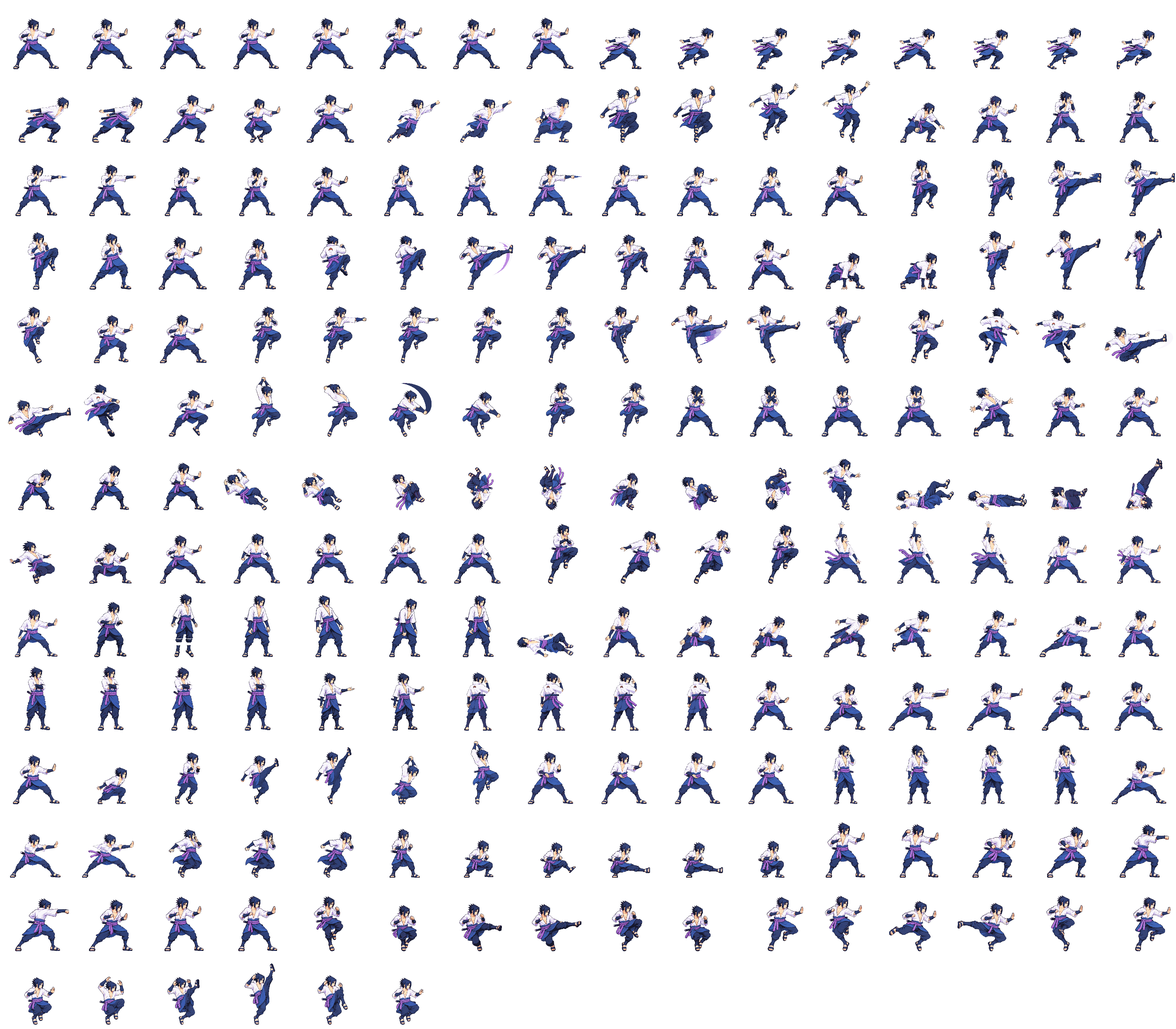
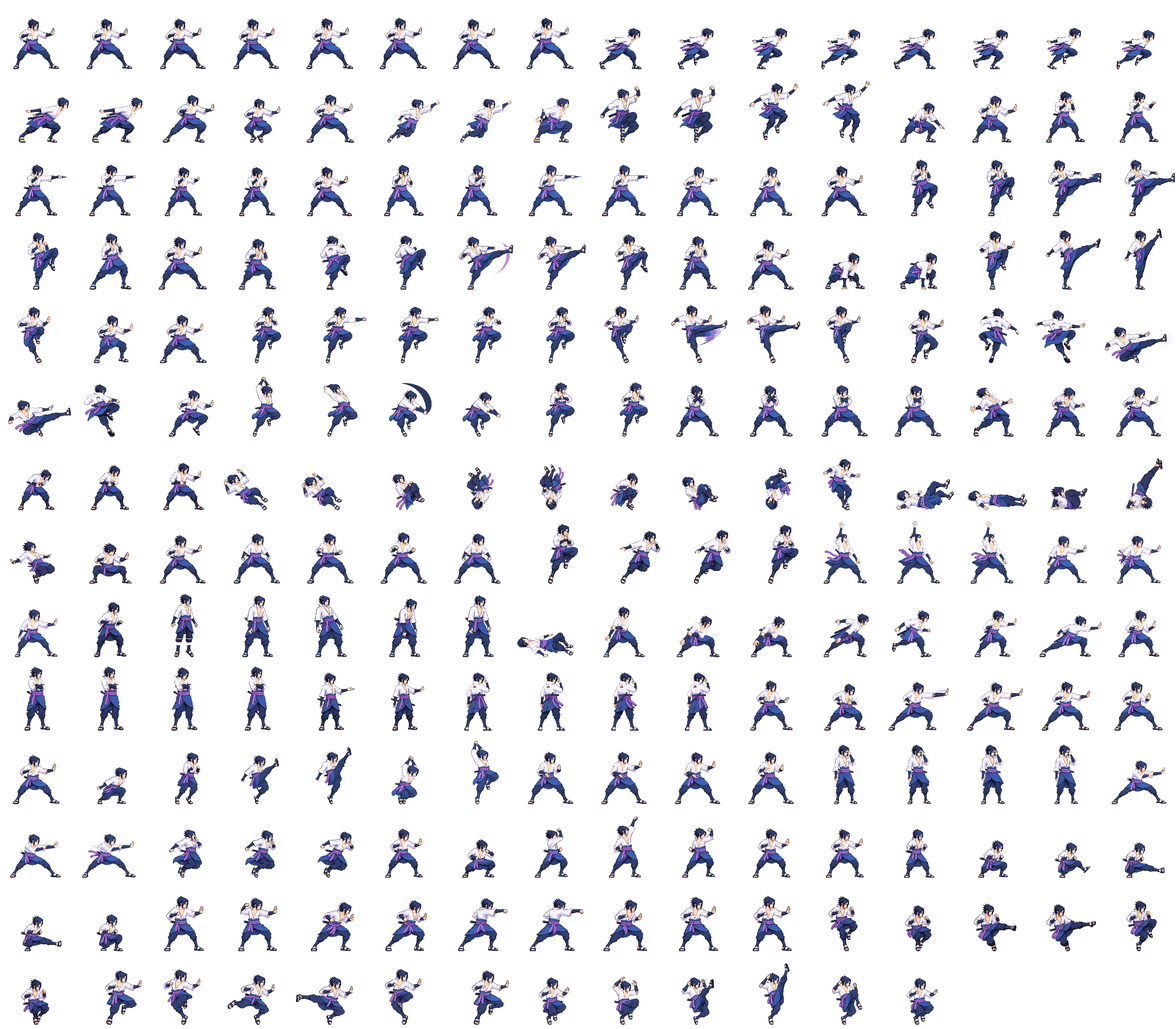
art(sasuke): prepare deterministic uTilt v05 edit

Changed region(s): [[0.0, 0.8125, 1.0, 1.0]]

diff --git a/public/reviews/normals-sasuke/index.html b/public/reviews/normals-sasuke/index.html
@@ -27,8 +27,8 @@
 </head>
 <body><main>
   <h1>Sasuke directional normals — ENG-112</h1>
-  <p>Review-only art candidates. Via Claude relay combat #3, the user approved uTilt v01, fSmash v02, fair v03, bair v01 and uair v01 as drawings; via relay #7, they approved fTilt v03, dashAttack v05 and uSmash v05 as drawings. Relay #5 records the user's rejection of dTilt v02 because it reads as a stomach-height thrust instead of a crouched shin poke. The user approved dTilt v05 as drawn via relay #13 after reviewing packed cells 181–186; it remains the approved drawing. Relay #10 authorized a further kick-specific round; its selected dTilt v06 is shown below as a raw strip for drawing review, but the scale gate failed and no packed atlas was written. Any v06 image approval applies to the drawing only and cannot clear this technical hold. The authorized uTilt v02 redraw and v03 head-only round both repainted the full canvas, so no candidate was selected in either round; approved uTilt v01 remains technically held. v03 attempts and provenance are recorded in the branch review queue and attempt ledger. The three other approved drawings also remain in technical hold, with stand-ins active. The user directed via relay #8 that dSmash keeps its stand-in. Candidate previews below show quantized atlas crops beside the stand-ins and approved idle f0 at 256 px per cell.</p>
-  <p class="status"><strong>Technical audit: HOLD.</strong> dTilt v05 was selected by the user for review, imported with a measured x0.8511 auto-head fit and passes the default quantized gate. Astra visually passes six-frame anatomy and shin-height forward contact; body-sheet B=.73 remains a quantitative advisory, and runtime contact/timing remain unverified. New kick-specific dTilt v06 is shown below for drawing review; its default quantized scale gate fails, no packed atlas was written and the final Astra atlas audit is pending. Do not treat a v06 drawing approval as technical clearance. The fallback remains active during review. Full-source Astra scale audit: uTilt v01's f2/f3 probes hit raised arms, but readable heads remain 7.6% small and cannot pass by exemption or auto-fit; the user-approved drawing stays held pending a decision before any redraw. uair v01 passes after the version-bound f1 probe exemption. fair v03 is head-scale ok after the measured 0.9407 import fit, but its body-sheet B=.73–.81 remains an advisory pending precise torso/leg segment measurements; the unchanged source drawing remains user-approved. fTilt v03 remains held for anatomy and phase/contact mismatch; dashAttack v05 for endpoint scale, phase and generic-box concerns; uSmash v05 for scale pop/anatomy. Runtime hit landing remains Claude's integration check.</p>
+  <p>Review-only art candidates. Via Claude relay combat #3, the user approved uTilt v01, fSmash v02, fair v03, bair v01 and uair v01 as drawings; via relay #7, they approved fTilt v03, dashAttack v05 and uSmash v05 as drawings. Relay #5 records the user's rejection of dTilt v02 because it reads as a stomach-height thrust instead of a crouched shin poke. The user approved dTilt v05 as drawn via relay #13 after reviewing packed cells 181–186; it remains the approved drawing. Relay #10 authorized kick-specific dTilt v06; it is still shown below from source for review, but its scale gate fails. Relay #11 authorized a no-generation deterministic 8% head enlargement for approved uTilt v01. The new uTilt v05 is the next unused version because v02/v03 attempts and a v04 edit attempt are retained; this page shows quantized v05 frames and before/after source heads. The move remains unapproved, and its stand-in stays active. The user directed via relay #8 that dSmash keeps its stand-in. Candidate previews below show quantized atlas crops beside the stand-ins and approved idle f0 at 256 px per cell.</p>
+  <p class="status"><strong>Technical audit: HOLD for the fighter pack.</strong> Astra inspected all seven quantized uTilt v05 cells and found the requested head enlargement has no obvious jaw/collar gap or limb displacement. Full numerical anatomy/scale remains HOLD: readable f6 head=.921, manual uncertainty about ±2–3 packed px, body-sheet B median=.917 below the .93 target. The candidate default gate passes with v05-only f2/f3 raised-arm probe exemptions; readable-head median .996. The strict all-strips dry run fails on dTilt v06 (head 1.09, feet 1.50). The review atlas was packed with dTilt v06 temporarily held out, so it contains approved dTilt v05 and unapproved uTilt v05. User seam review is pending; drawing approval cannot clear these technical holds. Runtime contact/timing remain Claude's integration check. The other approved drawings remain in technical hold with stand-ins active. fair v03 passed head scale after a measured 0.9407 import fit, but body-sheet B=.73–.81 remains advisory pending precise segment measurements. fTilt v03 remains held for anatomy and phase/contact mismatch; dashAttack v05 for endpoint scale, phase and generic-box concerns; uSmash v05 for scale pop/anatomy.</p>
   <p class="links"><a href="../../characters/sasuke/sheet.png">Branch quantized atlas (includes review candidate dTilt v05)</a> · <a href="atlas-audit/characters/sasuke/sheet.png">Earlier full quantized diagnostic atlas for Astra</a> · <a href="atlas-audit/README.md">Diagnostic atlas notes</a> · <a href="../../characters/sasuke/anims.json">branch anims.json</a> · <a href="lineup-normals-sasuke.png">lineup diagnostic</a> · <a href="body/body-report.json">prior body report</a> · <a href="https://gcd-tourney.vercel.app/?fight=sasuke,naruto&amp;mode=solo&amp;art=custom">current production site (not this branch preview)</a></p>
   <p class="small">The loop GIFs and frame PNGs for pending candidates are exact crops from the current quantized review atlas, beside stand-ins and approved idle at 256 px per cell. A candidate shown here does not itself approve the drawing or change the fallback. Raw generated strips are linked in each section. Runtime contact remains unverified.</p>
   <section id="dtilt-v06"><h2>dTilt v06 — kick-specific retry, scale hold</h2><p>Six poses: ready crouch, kick chamber, shin-height kick, shin-height kick, retraction, crouch. Sasuke's fists stay in guard and his sword stays sheathed. The raw strip is shown for visual review. The quantized scale gate measured the source head at 1.47× idle and feet at 1.96×; the auto-head fit required 0.68, outside the allowed 0.75–1.33 range. Clamping to 0.75 still leaves head 1.09× and feet 1.50×, and clips the active frames into the cell edge. The packer wrote no v06 atlas, so the technical hold remains and the user has not approved v06.</p><figure><figcaption>dTilt v06 raw six-frame strip · relay combat #10</figcaption><img src="dTilt_v06_source.png" alt="Sasuke crouches and delivers two shin-height forward kicks with his hands guarded"></figure><p class="small"><a href="dTilt_v06_source.png">Open raw strip</a>. The exact prompts, call IDs, input path and output hashes are recorded in the branch's `art/characters/sasuke/production/dTilt_v06_generation_attempts.md`. Previous v05 loop remains in the move list below.</p></section>
@@ -37,7 +37,7 @@
 <script>
 const moves = [
   { name: 'fTilt', v: 'v03', fallback: 'light2', count: 7, kind: 'packed', prefix: 'fTilt_', gif: 'fTilt_loop_v03.gif', file: 'candidates/fTilt_v03.png', hold: 'Astra holds undersized head/thigh volume and phase/contact mismatch; touching pose groups remain. v03 is preserved in raw/_qa_hold; fallback active.' },
-  { name: 'uTilt', v: 'v01', fallback: 'heavy', count: 7, kind: 'packed', prefix: 'uTilt_', gif: 'uTilt_loop_v01.gif', file: 'candidates/uTilt_v01.png', note: 'User-approved drawing; Astra found false f2/f3 head detections, but readable head median .924 still fails the 6% gate. No valid import fit; held in raw/_qa_hold, stand-in active pending user decision.' },
+  { name: 'uTilt', v: 'v05', fallback: 'heavy', count: 7, kind: 'packed', prefix: 'uTilt_v05_', gif: 'uTilt_loop_v05.gif', file: 'candidates/uTilt_v05_source.png', hold: 'Astra: head-edit seam/pose PASS for review. Overall scale HOLD: readable f6 head .921 and B median .917; manual uncertainty ±2–3 packed px. Default gate passes with v05-only f2/f3 arm-probe exemptions; strict all-strips dry run is blocked by dTilt v06. User seam approval pending; fallback active.' },
   { name: 'dTilt', v: 'v05', fallback: 'light3', count: 6, kind: 'packed', prefix: 'dTilt_', gif: 'dTilt_loop_v05.gif', file: '../../characters/sasuke/raw/dTilt_v05.png', hold: 'User approved v05 as drawn via Claude relay combat #13 after reviewing packed sheet cells 181–186. Measured auto-head fit x0.8511; default quantized gate passes. Astra visually passes anatomy and shin-height forward strike; body sheet B=.73 remains an unresolved quantitative advisory. Runtime contact/timing unverified; fallback remains active until integration clearance. <a href="audits/dTilt-v05-astra-audit.md">Astra audit</a>. v06 is shown above for drawing review under a separate scale hold.' },
   { name: 'dashAttack', v: 'v05', fallback: 'light4', count: 7, kind: 'packed', prefix: 'dashAttack_', gif: 'dashAttack_loop_v05.gif', file: 'candidates/dashAttack_v05.png', hold: 'Astra holds oversized upright endpoints, phase mismatch and generic active box; v05 is preserved in raw/_qa_hold, fallback active pending integration and user review.' },
   { name: 'fSmash', v: 'v02', fallback: 'light4', count: 9, kind: 'packed', prefix: 'fSmash_', gif: 'fSmash_loop_v02.gif', file: 'candidates/fSmash_v02.png', note: 'Packed v02 selected; v03 was held after it clipped the 4 px cell margin. Frame 01 is the charge pose. <a href="candidates/fSmash_v03.png">View held v03 source</a>.' },
@@ -62,6 +62,7 @@ const descriptions = {
 const host = document.querySelector('#moves');
 for (const move of moves) {
   const section = document.createElement('section');
+  section.id = move.name === 'uTilt' && move.v === 'v05' ? 'utile-v05' : move.name;
   const approvedDrawings = { fTilt: 'v03', uTilt: 'v01', dTilt: 'v05', dashAttack: 'v05', fSmash: 'v02', uSmash: 'v05', fair: 'v03', bair: 'v01', uair: 'v01' };
   const approval = approvedDrawings[move.name] === move.v ? '<strong class="candidate">User-approved drawing — technical HOLD remains.</strong> ' : '';
   const label = approval ? 'Technical HOLD remains.' : move.kind === 'packed' ? 'Unapproved candidate — Astra audit pending.' : 'Astra HOLD; not approved.';
@@ -70,7 +71,7 @@ for (const move of moves) {
   const candidateFrames = Array.from({length: move.count}, (_, i) => `<div class="frame"><img src="${prefix}${String(i).padStart(2, '0')}.png" alt="${move.name} frame ${i}">${i}</div>`).join('');
   const fallbackFiles = { light2: 7, heavy: 8, light3: 7, light4: 8, airLight2: 5, airLight3: 6 };
   const standinFrames = Array.from({length: fallbackFiles[move.fallback]}, (_, i) => `<div class="frame"><img src="standins/${move.name}/${move.fallback}_${String(i).padStart(2, '0')}.png" alt="${move.fallback} stand-in frame ${i}">${i}</div>`).join('');
-  const extra = move.name === 'dTilt' ? ' · <a href="body/dTilt_v05.png">body sheet</a> · <a href="body/heads-sasuke.png">heads scale sheet</a>' : '';
+  const extra = move.name === 'dTilt' ? ' · <a href="body/dTilt_v05.png">body sheet</a> · <a href="body/heads-sasuke.png">heads scale sheet</a>' : move.name === 'uTilt' ? ' · <a href="uTilt_head_before_after_v05.png">head before/after</a> · <a href="candidates/uTilt_v05.png">quantized strip</a> · <a href="body/uTilt_v05.png">body sheet</a> · <a href="heads-sasuke-v05.png">heads scale sheet</a> · <a href="audits/uTilt-v05-astra-audit.md">Astra audit</a>' : '';
   section.innerHTML = `<h2>${move.name} ${move.v} — fallback: ${move.fallback}</h2><p>${descriptions[move.name]}</p><p>${status}</p><div class="row"><figure><figcaption>Approved idle f0</figcaption><img class="idle" src="standins/idle_00.png" alt="Approved Sasuke idle frame 0"></figure><figure><figcaption>Existing stand-in: ${move.fallback}</figcaption><div class="frames">${standinFrames}</div></figure><figure><figcaption>Candidate frames · ${move.hold ? 'source-only' : 'quantized atlas'}</figcaption><div class="frames">${candidateFrames}</div><img class="loop" src="${move.gif}" alt="${move.name} loop preview"><p><a href="${move.file}">raw ${move.v} strip</a>${extra}</p></figure></div>`;
   host.append(section);
 }

diff --git a/art/characters/sasuke/production/uTilt_v05_pixel_edit.md b/art/characters/sasuke/production/uTilt_v05_pixel_edit.md
@@ -1,0 +1,55 @@
+# Sasuke uTilt v05 deterministic head edit (ENG-112)
+
+## User direction
+
+Claude relayed user decision combat #11: do not generate an image; enlarge only the hair-to-chin head of approved
+uTilt v01 about 8% around the neck/jaw, keep the same poses and strip layout, record the deterministic pixel edit, then
+return the result for seam review. The user approved v01 via Claude relay combat #3. This v05 is a new unapproved
+candidate; `approvedVersion` remains 1. v02 and v03 were occupied by failed earlier image edits, and a failed local
+deterministic v04 attempt is preserved at `raw/_qa_hold/uTilt_v04_edit_attempt.png`. Version numbers were not reused.
+
+## Source and operation
+
[2 lines of base64/hex data omitted]
+- Operation: for each frame, select only the visible hair/head-to-chin pixels inside a hand-traced head mask and overlay a deterministic nearest-neighbor 1.08 enlargement about the neck/jaw anchor. All source pixels outside the transformed head/neck-edge regions remain byte-identical. There were no image-generation or image-edit model calls.
+- Per-frame anchors in source canvas coordinates: f0 `(165,350)`, f1 `(508,411)`, f2 `(788,329)`, f3 `(1073,300)`, f4 `(1380,320)`, f5 `(1675,348)`, f6 `(1985,348)`.
+- Transformed source pixel bounding boxes (exclusive max): f0 `(116,231)-(212,353)`, f1 `(455,319)-(553,417)`, f2 `(733,246)-(831,333)`, f3 `(1001,209)-(1106,313)`, f4 `(1315,225)-(1421,331)`, f5 `(1625,231)-(1722,357)`, f6 `(1942,235)-(2039,357)`. Total pixel differences from v01: 46,294.
+- v04 attempt used erase-and-replace, exposed magenta seams at the collar/back hair, and was moved intact to `_qa_hold`; v05 instead overlays the enlargement on the untouched source so the original neck/collar remain underneath.
+
+## Pack and Astra evidence
+
+The initial quantized pack reported a false `pop` because the head probe selected raised arms at f2/f3. Astra confirmed on the
+v05 source that the actual heads remain below-left of those arms, matching the earlier v01 measurement error. The manifest
+therefore records only f2 and f3 as `scaleExemptFrames`, with `scaleExemptVersion: 5` and explicit version-bound reasons.
+
+A default candidate pack then passed and wrote the 48-color atlas. For that diagnostic pack only, dTilt v06 was temporarily
+moved to `raw/_qa_hold/`; the atlas therefore packs approved dTilt v05 and candidate uTilt v05. dTilt v06 was restored to
+`raw/` before the full strict-scale dry run, which correctly fails on dTilt v06 (head 1.09 of idle, feet 1.50). uTilt v05
+cells are 181–187; `loop:false`, phases 2/2/3.
+
+Final Astra audit of the actual quantized cells:
+
+| Frame | head probe | body B | finding |
+|---|---:|---:|---|
+| 0 | .971 | .918 | head/jaw joins collar; stance retained |
+| 1 | 1.000 | .828 | crouch intact; folded limbs obscure segment lengths |
+| 2 | .540 (false arm probe) | .882 | head is below-left of raised arm; sleeve obscures lower landmarks |
+| 3 | .581 (false arm probe) | 1.039 | head is below-left of overhead arm; neck remains connected |
+| 4 | .996 | .917 | recovery head/collar continuous; silhouettes retained |
+| 5 | 1.000 | .920 | clean recovery silhouette and jaw attachment |
+| 6 | .921 | .913 | no obvious seam; readable head remains below target |
+
+Head-edit seam/pose verdict: **PASS for the user's seam review**. Full numerical scale/anatomy verdict: **HOLD**. Readable
+head measurements have approximately ±2–3 packed-pixel uncertainty, higher at f2/f3 due to occlusion and angle; this is not
+precise enough to certify ±3%. Body-sheet median B is `.917`, below the assigned `.93–1.07` advisory envelope, and this
+inspection does not quantitatively explain away the shortfall. The unchanged v01 poses already look more compact/narrow than
+idle/combat. No new torso/limb/footwear/clothing-volume distortion is apparent, but no numerical segment pass is claimed.
+
[2 lines of base64/hex data omitted]
+- Before/after source-head view: `public/reviews/normals-sasuke/uTilt_head_before_after_v05.png`.
+- Packed frame loop, body sheet, and scale-head sheet are linked on the ENG-112 review page.
+
+User seam approval is still pending; approval of v05 would not clear the Astra numeric hold, activate the strip in production,
+or override the separate dTilt v06 gate. Fallback remains active pending user drawing approval and Claude's integration check.

diff --git a/public/reviews/normals-sasuke/audits/uTilt-v05-astra-audit.md b/public/reviews/normals-sasuke/audits/uTilt-v05-astra-audit.md
@@ -1,0 +1,55 @@
+# Sasuke uTilt v05 deterministic head edit (ENG-112)
+
+## User direction
+
+Claude relayed user decision combat #11: do not generate an image; enlarge only the hair-to-chin head of approved
+uTilt v01 about 8% around the neck/jaw, keep the same poses and strip layout, record the deterministic pixel edit, then
+return the result for seam review. The user approved v01 via Claude relay combat #3. This v05 is a new unapproved
+candidate; `approvedVersion` remains 1. v02 and v03 were occupied by failed earlier image edits, and a failed local
+deterministic v04 attempt is preserved at `raw/_qa_hold/uTilt_v04_edit_attempt.png`. Version numbers were not reused.
+
+## Source and operation
+
[2 lines of base64/hex data omitted]
+- Operation: for each frame, select only the visible hair/head-to-chin pixels inside a hand-traced head mask and overlay a deterministic nearest-neighbor 1.08 enlargement about the neck/jaw anchor. All source pixels outside the transformed head/neck-edge regions remain byte-identical. There were no image-generation or image-edit model calls.
+- Per-frame anchors in source canvas coordinates: f0 `(165,350)`, f1 `(508,411)`, f2 `(788,329)`, f3 `(1073,300)`, f4 `(1380,320)`, f5 `(1675,348)`, f6 `(1985,348)`.
+- Transformed source pixel bounding boxes (exclusive max): f0 `(116,231)-(212,353)`, f1 `(455,319)-(553,417)`, f2 `(733,246)-(831,333)`, f3 `(1001,209)-(1106,313)`, f4 `(1315,225)-(1421,331)`, f5 `(1625,231)-(1722,357)`, f6 `(1942,235)-(2039,357)`. Total pixel differences from v01: 46,294.
+- v04 attempt used erase-and-replace, exposed magenta seams at the collar/back hair, and was moved intact to `_qa_hold`; v05 instead overlays the enlargement on the untouched source so the original neck/collar remain underneath.
+
+## Pack and Astra evidence
+
+The initial quantized pack reported a false `pop` because the head probe selected raised arms at f2/f3. Astra confirmed on the
+v05 source that the actual heads remain below-left of those arms, matching the earlier v01 measurement error. The manifest
+therefore records only f2 and f3 as `scaleExemptFrames`, with `scaleExemptVersion: 5` and explicit version-bound reasons.
+
+A default candidate pack then passed and wrote the 48-color atlas. For that diagnostic pack only, dTilt v06 was temporarily
+moved to `raw/_qa_hold/`; the atlas therefore packs approved dTilt v05 and candidate uTilt v05. dTilt v06 was restored to
+`raw/` before the full strict-scale dry run, which correctly fails on dTilt v06 (head 1.09 of idle, feet 1.50). uTilt v05
+cells are 181–187; `loop:false`, phases 2/2/3.
+
+Final Astra audit of the actual quantized cells:
+
+| Frame | head probe | body B | finding |
+|---|---:|---:|---|
+| 0 | .971 | .918 | head/jaw joins collar; stance retained |
+| 1 | 1.000 | .828 | crouch intact; folded limbs obscure segment lengths |
+| 2 | .540 (false arm probe) | .882 | head is below-left of raised arm; sleeve obscures lower landmarks |
+| 3 | .581 (false arm probe) | 1.039 | head is below-left of overhead arm; neck remains connected |
+| 4 | .996 | .917 | recovery head/collar continuous; silhouettes retained |
+| 5 | 1.000 | .920 | clean recovery silhouette and jaw attachment |
+| 6 | .921 | .913 | no obvious seam; readable head remains below target |
+
+Head-edit seam/pose verdict: **PASS for the user's seam review**. Full numerical scale/anatomy verdict: **HOLD**. Readable
+head measurements have approximately ±2–3 packed-pixel uncertainty, higher at f2/f3 due to occlusion and angle; this is not
+precise enough to certify ±3%. Body-sheet median B is `.917`, below the assigned `.93–1.07` advisory envelope, and this
+inspection does not quantitatively explain away the shortfall. The unchanged v01 poses already look more compact/narrow than
+idle/combat. No new torso/limb/footwear/clothing-volume distortion is apparent, but no numerical segment pass is claimed.
+
[2 lines of base64/hex data omitted]
+- Before/after source-head view: `public/reviews/normals-sasuke/uTilt_head_before_after_v05.png`.
+- Packed frame loop, body sheet, and scale-head sheet are linked on the ENG-112 review page.
+
+User seam approval is still pending; approval of v05 would not clear the Astra numeric hold, activate the strip in production,
+or override the separate dTilt v06 gate. Fallback remains active pending user drawing approval and Claude's integration check.

diff --git a/art/TRACKER.md b/art/TRACKER.md
@@ -239,7 +239,7 @@ Sprite Lab; if his hair adds clearly less height and his head comes out bigger, 
 | 9 | specialDown | 4 | 2/1/1 | no | 204 | approved | v04 | v04 | Title-style v04 approved by the user 2026-10-11 (shown in the final review preview). |
 | 9 | superPose | 4 | - | no | 208 | approved | v01 | v01 | Fallback: original v01 (title v03 passes but was never shown). Approved original v01. |
 | 9 | fTilt | 7 | 2/2/3 | no | 180 | approved | v03 | v03 | User approved as drawn via Claude relay combat #7. Astra scale/anatomy and phase/contact HOLD remains; preserved in raw/_qa_hold and fallback remains active. [ENG-112 review](../public/reviews/normals-sasuke/). |
-| 9 | uTilt | 7 | 2/2/3 | no | 213 | approved | v01 | v01 | User approved as drawn via Claude relay combat #3. Astra confirms f2/f3 probe reads raised arms; exemptions are recorded, but readable heads median .924 still fail the 6% gate. The authorized v02 round and v03 head-only round both changed the full canvas; v03 attempts 01–03 changed 91.01–97.18% of pixels. No candidate selected; attempts are retained in raw/_qa_hold. v01 remains held and its stand-in stays active pending the user's next decision. [ENG-112 review](../public/reviews/normals-sasuke/). [v03 attempt ledger](characters/sasuke/production/uTilt_v03_head_edit_attempts.md). |
+| 9 | uTilt | 7 | 2/2/3 | no | 213 | approved | v05 | v01 | User approved v01 via Claude relay combat #3. Per relay #11, v05 deterministically enlarges only head/hair about 8% from v01 pixels; v02/v03 failures and v04 local edit are preserved, not reused. Astra inspected quantized cells 181–187 and found the head-edit seam/pose pass for review; full numerical scale remains HOLD (readable f6 head .921 ±2–3 px; body B median .917 vs .93 target). Default candidate gate passes with version-bound v05 f2/f3 false arm-probe exemptions; user seam approval pending. v01 remains approved; fallback stays active. [ENG-112 review](../public/reviews/normals-sasuke/#utile-v05). [v05 pixel-edit/Astra record](characters/sasuke/production/uTilt_v05_pixel_edit.md). |
 | 9 | dTilt | 6 | 2/2/2 | no | 200 | approved | v06 | v05 | User approved v05 as drawn via Claude relay combat #13 after reviewing packed cells 181–186. Relay #10 then authorized a kick-specific v06 round; attempt 03 was selected as the six-frame shin-height kick, with guarded arms and sheathed sword. v06's quantized scale gate blocks packing: auto-head fit 0.68 is outside 0.75–1.33 and the clamped fit leaves the figure oversized/clipped. v05 remains the approved drawing; v06 is a separate drawing-review request under technical hold. [ENG-112 review](../public/reviews/normals-sasuke/). [v06 generation ledger](characters/sasuke/production/dTilt_v06_generation_attempts.md). |
 | 9 | dashAttack | 7 | 2/2/3 | no | 193 | approved | v05 | v05 | User approved as drawn via Claude relay combat #7. Astra scale/anatomy and phase/contact HOLD remains; preserved in raw/_qa_hold and fallback remains active. [ENG-112 review](../public/reviews/normals-sasuke/). |
 | 9 | fSmash | 9 | 4/2/3 | no | 193 | approved | v02 | v02 | User approved v02 as drawn via Claude relay combat #3. Astra technical HOLD remains; v03 stays held for 2 px margin clipping. f1 is the held charge pose. [ENG-112 review](../public/reviews/normals-sasuke/). |

diff --git a/art/REVIEW.md b/art/REVIEW.md
@@ -1,5 +1,17 @@
 # Art review queue
 
+## 2026-10-18 — Sasuke uTilt v05 — needs review, technical hold pending strict scale gate
+
+| date | character | asset | file | version | status | what changed | QA notes |
+|---|---|---|---|---|---|---|---|
+| 2026-10-18 | sasuke | uTilt | [uTilt_v05](characters/sasuke/raw/uTilt_v05.png) · [before/after](../public/reviews/normals-sasuke/uTilt_head_before_after_v05.png) · [ENG-112 review](../public/reviews/normals-sasuke/#utile-v05) | v05 | needs review | Per user decision via Claude relay combat #11, deterministically enlarged only the head/hair to chin about 8% from approved v01 pixels, preserving pose and strip geometry. | No image generation calls. Nearest-neighbor 1.08 enlargement around seven neck/jaw anchors; canvas 2172x724. Default quantized gate passes with Astra-evidenced v05-only f2/f3 raised-arm probe exemptions; head median .996, range .079, feet metric 1.27. Astra inspected quantized cells 181–187: seam/pose PASS for review, but full numerical clearance HOLD: readable f6 head .921 with ±2–3 packed-pixel uncertainty and body-sheet B median .917 (below .93 target; advisory). User seam approval pending; no production promotion. Review atlas was packed with dTilt v06 temporarily held out, so this v05 candidate atlas includes approved dTilt v05. Strict all-strips dry-run fails on dTilt v06 (head 1.09, feet 1.50). Prior v02/v03 calls and v04 local edit attempt are preserved and not reused. [Pixel-edit/Astra record](characters/sasuke/production/uTilt_v05_pixel_edit.md). |
+
+## 2026-10-18 — Sasuke uTilt v04 deterministic edit attempt — technical reject, no candidate
+
+| date | character | asset | file | version | status | what changed | QA notes |
+|---|---|---|---|---|---|---|---|
+| 2026-10-18 | sasuke | uTilt | [v04 edit attempt](characters/sasuke/raw/_qa_hold/uTilt_v04_edit_attempt.png) | v04 | rejected technically; no candidate | First local deterministic head enlargement attempt under relay combat #11. | Erasing the old head mask exposed magenta seams at the collar/back hair. Preserved in `_qa_hold`; not packed or presented as the selected edit. |
+
 ## 2026-10-18 — Sasuke dTilt v06 — needs review, technical hold
 
 | date | character | asset | file | version | status | what changed | QA notes |

diff --git a/art/characters/sasuke/CLAUDE_ART_HANDOFF.md b/art/characters/sasuke/CLAUDE_ART_HANDOFF.md
@@ -1,5 +1,19 @@
 # ENG-112 Sasuke normals handoff
 
+## uTilt deterministic head edit (2026-10-18, user decision via Claude relay combat #11)
+
+The user authorized no generation: enlarge only the hair-to-chin head of approved uTilt v01 about 8% around the neck/jaw,
+preserving poses and strip layout, then return it for seam review. v02 and v03 were already occupied by failed image edits,
+and a destructive local v04 operation exposed magenta seams, so the selected candidate is the next free version, uTilt v05.
+The source pixels and output hash, anchors, per-frame changed regions, and failed v04 record are documented in
+`production/uTilt_v05_pixel_edit.md`. The default quantized pack passes with Astra's version-bound f2/f3 arm-probe
+exemptions; the full strict-scale dry run fails on dTilt v06. Astra inspected packed cells 181–187: the requested head-edit
+seam/pose passes for review, but full numerical scale remains HOLD (readable f6 head .921 with ±2–3 px uncertainty; body
+B median .917 below the .93 advisory target). The user has not approved v05; v01 remains `approvedVersion`, and fallback
+remains active. Review page includes the raw edit, frame loop, before/after and measurement sheets. Next: request user seam
+review for v05 while clearly stating that drawing approval does not clear the numeric hold. No engine contact/runtime check
+was done by Codex.
+
 ## dTilt low-kick retry (2026-10-18, user decision via Claude relay combat #10)
 
 The user authorized one more round of up to three image calls specifically for a genuine crouched low kick, with arms in guard and no fist strike. Calls #8 and #9 were already spent in the prior turn; #10 was the only new call budget. Selected attempt 03 byte-for-byte as `raw/dTilt_v06.png` (six poses; kick in f2/f3, retraction f4, crouch f5). Attempts 01–03 remain under `raw/_qa_hold/`; exact prompts, call IDs, original/saved hashes, dimensions and dispositions are in `production/dTilt_v06_generation_attempts.md`.
